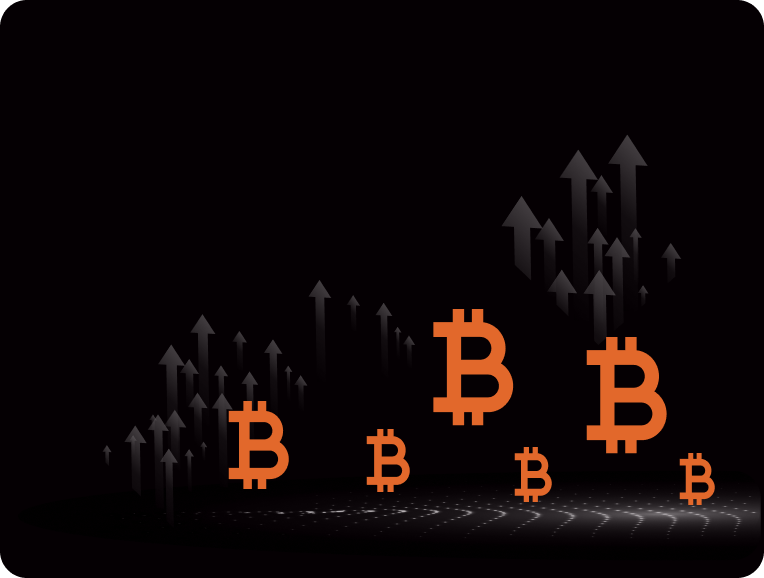
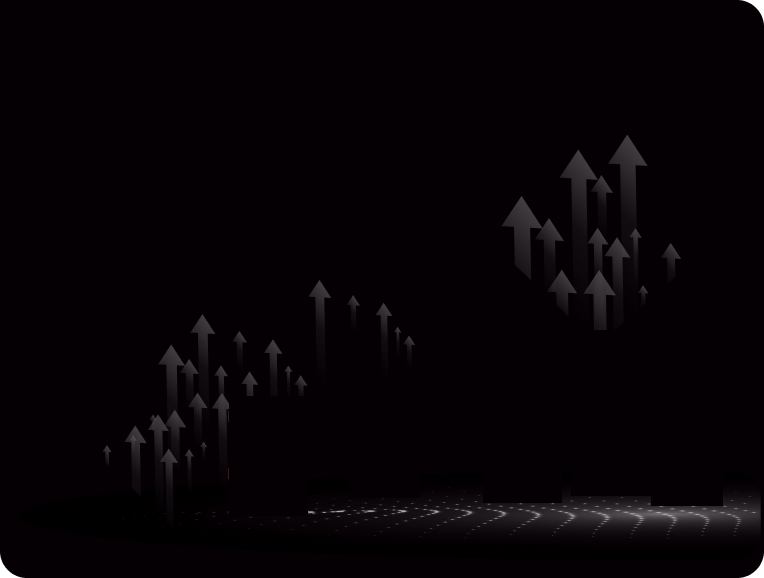
updated website

diff --git a/src/pages/landing-page/NewFeature.tsx b/src/pages/landing-page/NewFeature.tsx
@@ -2,9 +2,9 @@ import Image from "next/image";
 import React from "react";
 import styled from "styled-components";
 import graphic1 from "@/Assets/Images/graphic1.png";
-import img1 from "@/Assets/Images/joing1.png";
+import img1 from "@/Assets/Images/feature.png";
 import loc from "@/Assets/Images/loc.png";
-import img2 from "@/Assets/Images/feature.png";
+import img2 from "@/Assets/Images/nf2.png";
 
 const NewFearureSection: React.FC = () => {
   return (
